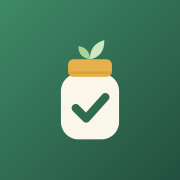
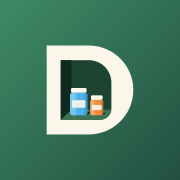
Add files via upload

Changed region(s): [[0.25, 0.2222, 0.75, 0.7778]]

diff --git a/index.html b/index.html
@@ -3,7 +3,7 @@
 <head>
 <meta charset="utf-8">
 <meta name="viewport" content="width=device-width, initial-scale=1, viewport-fit=cover">
-<title>Alacena · Tu despensa, siempre al día</title>
+<title>Despentsa · Tu despensa, siempre al día</title>
 <meta name="description" content="Controla lo que tienes en casa, recibe avisos cuando algo se acaba y comparte la lista de la compra con quien vives.">
 <meta name="theme-color" content="#F6F1E7" media="(prefers-color-scheme: light)">
 <meta name="theme-color" content="#141B16" media="(prefers-color-scheme: dark)">
@@ -12,7 +12,7 @@
 <link rel="apple-touch-icon" href="apple-touch-icon.png">
 <meta name="apple-mobile-web-app-capable" content="yes">
 <meta name="mobile-web-app-capable" content="yes">
-<meta name="apple-mobile-web-app-title" content="Alacena">
+<meta name="apple-mobile-web-app-title" content="Despentsa">
 <link rel="preconnect" href="https://fonts.googleapis.com">
 <link rel="preconnect" href="https://fonts.gstatic.com" crossorigin>
 <link href="https://fonts.googleapis.com/css2?family=DM+Sans:wght@400;500;600;700&family=Fraunces:opsz,wght@9..144,500;9..144,600;9..144,700&display=swap" rel="stylesheet">
@@ -124,31 +124,37 @@
   .cat-dots .l{background:color-mix(in srgb,var(--c) 55%,var(--surface));outline:1.5px solid color-mix(in srgb,var(--c) 75%,var(--ink));}
   .card{background:var(--surface);border:1px solid var(--line);border-radius:var(--radius);box-shadow:var(--shadow);overflow:hidden;}
   .cat.closed .card{display:none;}
-  .row{position:relative;display:grid;grid-template-columns:46px 1fr auto;grid-template-areas:"ava info step" "bar bar bar";align-items:center;gap:2px 12px;padding:13px 14px 0;}
-  .row + .row{border-top:1px solid var(--line);}
-  .ava{grid-area:ava;width:46px;height:46px;border-radius:15px;display:grid;place-items:center;
+  .cat .card{display:grid;grid-template-columns:repeat(2,minmax(0,1fr));gap:10px;background:none;border:0;box-shadow:none;border-radius:0;overflow:visible;}
+  @media(min-width:600px){.cat .card{grid-template-columns:repeat(3,minmax(0,1fr));gap:12px;}}
+  .row{position:relative;display:flex;flex-direction:column;gap:9px;padding:12px 12px 0;background:var(--surface);border:1px solid var(--line);border-radius:18px;box-shadow:var(--shadow);overflow:hidden;min-width:0;}
+  .row.out{border-color:color-mix(in srgb,var(--red) 38%,var(--line));}
+  .row-top{display:flex;align-items:flex-start;justify-content:space-between;gap:6px;}
+  .flags{display:flex;flex-direction:column;align-items:flex-end;gap:4px;min-width:0;}
+  .ava{width:42px;height:42px;flex:none;border-radius:14px;display:grid;place-items:center;
     background:color-mix(in srgb,var(--c) 15%,var(--surface));color:color-mix(in srgb,var(--c) 82%,var(--ink));}
-  .ava .ic{width:23px;height:23px;}
+  .ava .ic{width:24px;height:24px;}
   .row.out .ava{background:var(--red-soft);color:var(--red);}
-  .info{grid-area:info;text-align:left;min-width:0;display:block;}
-  .nm{display:block;font-weight:600;font-size:16px;white-space:nowrap;overflow:hidden;text-overflow:ellipsis;}
+  .info{display:block;text-align:left;min-width:0;width:100%;}
+  .nm{display:block;font-weight:600;font-size:15px;line-height:1.2;overflow:hidden;text-overflow:ellipsis;}
+  .row .nm{display:-webkit-box;-webkit-line-clamp:2;-webkit-box-orient:vertical;min-height:2.4em;white-space:normal;}
+  .crow .nm{white-space:nowrap;}
   .sub{display:flex;align-items:center;flex-wrap:wrap;gap:6px;font-size:12.5px;color:var(--ink-3);margin-top:3px;}
-  .tag{display:inline-flex;align-items:center;gap:4px;padding:2px 8px;border-radius:999px;font-weight:700;font-size:11.5px;line-height:1.5;}
+  .tag{display:inline-flex;align-items:center;gap:4px;padding:2px 8px;border-radius:999px;font-weight:700;font-size:11px;line-height:1.5;white-space:nowrap;}
   .tag .ic{width:12px;height:12px;stroke-width:2.2;}
   .tag.out{background:var(--red);color:#fff;}
   .tag.low{background:color-mix(in srgb,var(--c) 14%,var(--surface));color:color-mix(in srgb,var(--c) 78%,var(--ink));border:1px solid color-mix(in srgb,var(--c) 35%,transparent);}
   .tag.exp{background:var(--amber-soft);color:var(--amber);}
   .tag.exp.bad{background:var(--red-soft);color:var(--red);}
-  .step{grid-area:step;display:flex;align-items:center;gap:4px;background:var(--surface-2);border:1px solid var(--line);border-radius:14px;padding:3px;}
-  .step button{width:38px;height:38px;border-radius:11px;display:grid;place-items:center;color:var(--ink);background:var(--surface);box-shadow:0 1px 1px rgba(0,0,0,.05);}
+  .step{display:flex;align-items:center;justify-content:space-between;gap:4px;background:var(--surface-2);border:1px solid var(--line);border-radius:14px;padding:3px;}
+  .step button{width:38px;height:38px;border-radius:11px;display:grid;place-items:center;color:var(--ink);background:var(--surface);box-shadow:0 1px 1px rgba(0,0,0,.05);flex:none;}
   .step button:active{transform:scale(.92);}
   .step button[disabled]{opacity:.3;pointer-events:none;}
   .step .ic{width:18px;height:18px;stroke-width:2.2;}
-  .q{min-width:50px;text-align:center;font-variant-numeric:tabular-nums;line-height:1.05;}
+  .q{flex:1;min-width:46px;text-align:center;font-variant-numeric:tabular-nums;line-height:1.05;}
   .q b{font-size:17px;font-weight:700;display:block;}
   .q small{font-size:11px;color:var(--ink-3);}
   .row.out .q b{color:var(--red);}
-  .bar{grid-area:bar;height:4px;margin:12px -14px 0;background:var(--surface-2);}
+  .bar{height:4px;margin:3px -12px 0;background:var(--surface-2);}
   .bar i{display:block;height:100%;background:var(--c);border-radius:0 4px 4px 0;transition:width .3s;}
   .row.low .bar i{background:color-mix(in srgb,var(--c) 50%,var(--surface));}
   .row.out .bar i{background:var(--red);}
@@ -167,13 +173,13 @@
   .grp.ext .grp-head{color:var(--ink-2);} .grp.ext .grp-head i{background:var(--ink-3);}
   .crow{display:grid;grid-template-columns:34px 1fr auto;align-items:center;gap:12px;padding:12px 14px;}
   .crow + .crow{border-top:1px solid var(--line);}
-  .crow .info,.crow .step{grid-area:auto;}
-  .crow .info{display:block;}
   .chk{width:30px;height:30px;border-radius:50%;border:2px solid var(--ink-3);display:grid;place-items:center;color:transparent;transition:all .15s;}
   .chk .ic{width:17px;height:17px;stroke-width:3;}
   .crow.done .chk{background:var(--brand);border-color:var(--brand);color:var(--brand-ink);}
   .crow.done .nm{text-decoration:line-through;color:var(--ink-3);}
+  .crow .step{justify-content:flex-start;}
   .crow .step button{width:34px;height:34px;}
+  .crow .q{flex:none;}
   .crow .rm{width:34px;height:34px;color:var(--ink-3);display:grid;place-items:center;}
   .cartbar{position:fixed;left:50%;transform:translateX(-50%);bottom:calc(88px + env(safe-area-inset-bottom));width:min(420px,calc(100% - 24px));z-index:29;}
   .cartbar .btn{width:100%;min-height:54px;box-shadow:0 10px 30px color-mix(in srgb,var(--brand) 40%,transparent);font-size:16px;}
@@ -245,7 +251,7 @@
 
   /* ---------- Vacíos ---------- */
   .empty{text-align:center;padding:38px 22px;background:var(--surface);border:1px dashed var(--line);border-radius:var(--radius);margin-top:14px;}
-  .empty svg.hero{width:150px;height:auto;margin:0 auto 10px;display:block;}
+  .empty svg.hero{width:140px;height:auto;margin:0 auto 10px;display:block;}
   .empty h3{font:600 21px/1.2 var(--serif);margin-bottom:6px;}
   .empty p{color:var(--ink-2);font-size:14.5px;max-width:34ch;margin:0 auto 18px;}
   .empty .acts{justify-content:center;} .empty .acts .btn{flex:none;}
@@ -260,7 +266,7 @@
   .ob{min-height:100dvh;display:flex;align-items:center;justify-content:center;padding:calc(24px + env(safe-area-inset-top)) 20px calc(24px + env(safe-area-inset-bottom));
     background:radial-gradient(900px 420px at 50% -80px,color-mix(in srgb,var(--brand) 22%,transparent),transparent 70%),var(--bg);}
   .ob-wrap{width:min(440px,100%);animation:fade .35s ease;}
-  .ob-hero{display:flex;justify-content:center;margin-bottom:8px;} .ob-hero svg{width:min(320px,86%);height:auto;}
+  .ob-hero{display:flex;justify-content:center;margin-bottom:8px;} .ob-hero svg{filter:drop-shadow(0 12px 24px rgba(35,80,64,.3));margin-top:6px;}
   .ob-brand{display:flex;align-items:center;justify-content:center;gap:12px;margin-top:6px;} .ob-brand h1{font:700 44px/1 var(--serif);letter-spacing:-.025em;}
   .ob-tag{text-align:center;color:var(--ink-2);font-size:17px;margin:8px 0 24px;}
   .ob-points{list-style:none;margin:0 0 24px;padding:0;display:flex;flex-direction:column;gap:14px;}
@@ -379,19 +385,64 @@ const P = {
   cookie:'<circle cx="12" cy="12" r="8.5"/><circle cx="9" cy="9.5" r=".9" fill="currentColor" stroke="none"/><circle cx="14.5" cy="10.5" r=".9" fill="currentColor" stroke="none"/><circle cx="10.5" cy="15" r=".9" fill="currentColor" stroke="none"/><circle cx="15" cy="15.5" r=".9" fill="currentColor" stroke="none"/>',
   roll:'<ellipse cx="12" cy="7" rx="7" ry="3"/><path d="M5 7v10c0 1.7 3.1 3 7 3s7-1.3 7-3V7"/><ellipse cx="12" cy="7" rx="2.5" ry="1"/>'
 };
+const F = 'fill="currentColor" fill-opacity=".16"';
+Object.assign(P, {
+  fridge:`<rect x="5.5" y="2.5" width="13" height="19" rx="2.5" ${F}/><path d="M5.5 9.5h13M8.5 5.5v1.8M8.5 12v3M8 21.5v1M16 21.5v1"/>`,
+  snow:`<path d="M12 3v18M4.6 7.5l14.8 9M4.6 16.5l14.8-9M9.5 4.6 12 6.8l2.5-2.2M9.5 19.4 12 17.2l2.5 2.2"/><circle cx="12" cy="12" r="2.3" ${F}/>`,
+  box:`<rect x="4" y="3" width="16" height="16" rx="2" ${F}/><path d="M12 3v16M4 19v2M20 19v2M9.5 10.5v2M14.5 10.5v2"/>`,
+  carrot:`<path d="M14 7c2.5.5 3.5 3 3 4.5L6.2 20.3c-.8.6-2.5-1-1.8-1.9L12.5 7.6 14 7Z" ${F}/><path d="M15.5 6.5C15.5 4 17 3 18.5 3c0 1.800-1 3-3 3.500ZM16.500 8c2-.5 4 0 4.500 1.500-1.500 1-3.200.5-4.500-1.500Z"/><path d="M9 13.500l2 1.500M7.500 16.500l1.800 1.300"/>`,
+  apple:`<path d="M12 7.500c-1.500-1-5-1-6 2.500-1 3.500.8 8.500 3.500 10.500 1 .7 1.700.5 2.500.2.800.3 1.500.5 2.500-.2 2.700-2 4.500-7 3.500-10.500-1-3.500-4.500-3.500-6-2.500Z" ${F}/><path d="M12 7.500C12 5.500 12.800 4 14 3M13 5.500c1.500-1.500 3.500-1.500 4.500-1-.5 1.800-2.500 2.500-4.500 1Z"/>`,
+  drumstick:`<circle cx="15" cy="9" r="5.500" ${F}/><path d="M11.200 12.800 6.500 17.500M13 7.200a3 3 0 0 1 3.200-.8"/><circle cx="5.400" cy="17" r="1.600"/><circle cx="7" cy="19" r="1.600"/>`,
+  fish:`<path d="M17.500 12c-2.500 4-7 5.800-11 4-1-.5-2-1.200-2.800-2.200L2 16V8l1.700 2.200C4.500 9.200 5.500 8.500 6.500 8c4-1.800 8.500 0 11 4Z" ${F}/><path d="M12 9.300c1 1.500 1 3.900 0 5.400"/><circle cx="15" cy="11" r=".7" fill="currentColor" stroke="none"/>`,
+  milk:`<path d="M8.500 2.500h7l2 4v13.500a1.500 1.500 0 0 1-1.500 1.500H8A1.500 1.500 0 0 1 6.500 20V6.500l2-4Z" ${F}/><path d="M6.500 6.500h11M9.500 12.500h5v4h-5z"/>`,
+  bread:`<path d="M4.500 10.500C3.500 7 6 4.500 9.500 4.500h5c3.500 0 6 2.500 5 6V18a1.500 1.500 0 0 1-1.500 1.500H6A1.500 1.500 0 0 1 4.500 18v-7.500Z" ${F}/><path d="M9.500 9.500l1.500 3M13 9.500l1.500 3"/>`,
+  bottle:`<path d="M10 2.500h4v5.200c0 .8.500 1.400 1.200 2 .5.400.8 1 .8 1.800V20a1.500 1.500 0 0 1-1.500 1.500h-5A1.500 1.500 0 0 1 8 20v-8.500c0-.8.300-1.400.8-1.800.7-.6 1.200-1.200 1.200-2V2.500Z" ${F}/><path d="M8 14h8M8 17.500h8"/>`,
+  spray:`<rect x="6.500" y="9" width="8" height="12" rx="2" ${F}/><path d="M8.500 9V6.500h5L16 4.500M16.500 8h2.500M16.500 10.500h2"/><circle cx="19.500" cy="5.500" r=".8"/>`,
+  spice:`<rect x="6.500" y="7" width="11" height="14" rx="2.500" ${F}/><rect x="8" y="3.500" width="8" height="3.500" rx="1"/><path d="M10 11.500h4M10 15h4"/>`,
+  pod:`<path d="M4.500 19.500C3 11 8.500 4.500 19.500 4.500c.5 11-5 16-15 15Z" ${F}/><circle cx="9.500" cy="14.500" r="1.600"/><circle cx="12.500" cy="11.500" r="1.600"/><circle cx="15.500" cy="8.500" r="1.600"/>`,
+  wheat:`<path d="M12 21.500V9"/>${[9.5,14,18.5].map(y=>`<path d="M12 ${y}c-2.200 0-3.500-1.500-3.500-3.700 2.200 0 3.500 1.500 3.500 3.700ZM12 ${y}c2.200 0 3.500-1.500 3.500-3.700-2.200 0-3.500 1.500-3.500 3.700Z" ${F}/>`).join('')}<path d="M12 5.500c-1-.9-1-2.500 0-3.500 1 1 1 2.600 0 3.500Z" ${F}/>`,
+  cart:`<path d="M3.500 10h17l-1.700 9.200a1.500 1.500 0 0 1-1.500 1.300H6.700a1.500 1.500 0 0 1-1.500-1.300L3.500 10Z" ${F}/><path d="M8 10l3-6M16 10l-3-6M9 13.500v4M12 13.500v4M15 13.500v4"/>`,
+  jar:`<rect x="6" y="7.500" width="12" height="13.500" rx="3" ${F}/><rect x="7.500" y="3.500" width="9" height="4" rx="1.200"/><path d="M9.500 13h5"/>`,
+  bowl:`<path d="M3 11h18a9 9 0 0 1-18 0Z" ${F}/><path d="M8 20.500h8M8 4c-.8.800-.8 1.700 0 2.500M12 3.500c-.8.800-.8 1.700 0 2.500M16 4c-.8.800-.8 1.700 0 2.500"/>`,
+  egg:`<ellipse cx="12" cy="13" rx="6" ry="8" ${F}/><path d="M9 9.500c.5-1 1.200-1.600 2-1.900"/>`
+});
+
 const ic = (n, cls = '') => `<svg class="ic ${cls}" viewBox="0 0 24 24" fill="none" stroke="currentColor" stroke-width="1.8" stroke-linecap="round" stroke-linejoin="round" aria-hidden="true">${P[n] || P.jar}</svg>`;
 
-const logo = (s = 36) => `<svg width="${s}" height="${s}" viewBox="0 0 512 512" aria-hidden="true"><defs><linearGradient id="lg${s}" x1="0" y1="0" x2="1" y2="1"><stop offset="0" stop-color="#3E8A66"/><stop offset="1" stop-color="#235040"/></linearGradient></defs><rect width="512" height="512" rx="116" fill="url(#lg${s})"/><path d="M256 138C254 104 272 78 308 68C310 104 292 132 256 138Z" fill="#CDE8C0"/><path d="M256 138C256 112 242 94 214 90C212 116 228 134 256 138Z" fill="#A6D497"/><rect x="150" y="190" width="212" height="240" rx="64" fill="#FBF6EA"/><rect x="176" y="138" width="160" height="64" rx="20" fill="#E6B04A"/><rect x="176" y="182" width="160" height="10" fill="#CF9A33" opacity=".55"/><path d="M204 316L242 354L312 276" fill="none" stroke="#2F6B4F" stroke-width="30" stroke-linecap="round" stroke-linejoin="round"/></svg>`;
+// Logo: la «D» de Despentsa es un hueco de despensa con profundidad (pared lateral oscura, fondo y suelo de la balda)
+// y dos tarros apoyados dentro.
+// Tarros planos de cocina (polígonos con hombros achaflanados): cara izquierda iluminada, borde derecho en sombra,
+// brillo en la tapa y sombra sobre el suelo bajo el tarro y hacia el fondo del armario.
+function jarSVG(x, yb, w, h, c, lid, lab){
+  const t = yb - h, k = w * .14, k2 = w * .1, lw = w * .9, lx = x + (w - lw) / 2;
+  const body = `${x + k},${t} ${x + w - k},${t} ${x + w},${t + k} ${x + w},${yb - k2} ${x + w - k2},${yb} ${x + k2},${yb} ${x},${yb - k2} ${x},${t + k}`;
+  return `<polygon points="${body}" fill="${c}"/>` +
+    `<polygon points="${x + k},${t} ${x + w * .36},${t} ${x + w * .36},${yb} ${x + k2},${yb} ${x},${yb - k2} ${x},${t + k}" fill="#fff" opacity=".22"/>` +
+    `<polygon points="${x + w * .82},${t} ${x + w - k},${t} ${x + w},${t + k} ${x + w},${yb - k2} ${x + w - k2},${yb} ${x + w * .82},${yb}" fill="#0B1F16" opacity=".16"/>` +
+    `<rect x="${x + w * .12}" y="${t + h * .36}" width="${w * .76}" height="${h * .32}" rx="3" fill="${lab}" opacity=".9"/>` +
+    `<rect x="${lx}" y="${t - 13}" width="${lw}" height="16" rx="4.5" fill="${lid}"/>` +
+    `<rect x="${lx + 4}" y="${t - 11}" width="${lw * .5}" height="3" rx="1.5" fill="#fff" opacity=".7"/>` +
+    `<rect x="${x + w * .1}" y="${t + h * .14}" width="3" height="${h * .62}" rx="1.5" fill="#fff" opacity=".35"/>`;
+}
+// Sombra sobre el suelo: un pequeño óvalo muy oscuro que queda detrás del tarro y solo asoma por abajo a la derecha,
+// a la altura del bisel inferior derecho, algo levantado hacia el fondo. Su base no pasa de la base del tarro.
+const shadowSVG = (x, yb, w, h) => {
+  const rx = w * .21, ry = w * .085, a = 12 * Math.PI / 180;
+  const hh = Math.hypot(rx * Math.sin(a), ry * Math.cos(a));
+  const cx = x + w - w * .06, cy = yb - 1.5 - hh;
+  return `<ellipse cx="${cx}" cy="${cy}" rx="${rx}" ry="${ry}" transform="rotate(-12 ${cx} ${cy})" fill="#081811" opacity=".85"/>`;
+};
+const ALC = 'M200 150H300A80 80 0 0 1 380 230V322A40 40 0 0 1 340 362H200Z';
+const MARK = `<g transform="translate(-48 0)"><path d="M150 98H300A158 158 0 0 1 300 414H150Z" fill="#FBF6EA"/>` +
+  `<clipPath id="alc"><path d="${ALC}"/></clipPath><clipPath id="flr"><polygon points="200,362 238,326 410,326 410,362"/></clipPath><g clip-path="url(#alc)"><rect x="200" y="150" width="210" height="212" fill="#1D4333"/>` +
+  `<polygon points="200,150 238,150 238,326 200,362" fill="#10281E"/><polygon points="200,362 238,326 410,326 410,362" fill="#3A7452"/>` +
+  `<g clip-path="url(#flr)">${shadowSVG(233, 346, 62, 84)}${shadowSVG(305, 346, 46, 58)}</g></g>` +
+  `${jarSVG(233, 346, 62, 84, '#4DB2EC', '#FBF6EA', '#FBF6EA')}${jarSVG(305, 346, 46, 58, '#F08A3C', '#FBF6EA', '#FBF6EA')}</g>`;
+const logo = (s = 36) => `<svg width="${s}" height="${s}" viewBox="0 0 512 512" aria-hidden="true"><defs><linearGradient id="lg${s}" x1="0" y1="0" x2="1" y2="1"><stop offset="0" stop-color="#3E8A66"/><stop offset="1" stop-color="#235040"/></linearGradient></defs><rect width="512" height="512" rx="116" fill="url(#lg${s})"/>${MARK}</svg>`;
 
-// Estantería ilustrada (onboarding y estados vacíos)
+// Escena mínima para los estados vacíos: una balda y dos tarros
 function shelfSVG(){
-  const cols = ['#2A9BD6', '#3F9142', '#E2762B', '#8A4FB5', '#C0432D'];
-  let jars = '';
-  cols.forEach((c, i) => {
-    const x = 18 + i * 58, h = [58, 70, 52, 64, 60][i], lvl = [.7, .45, .85, .3, .6][i], y = 108 - h;
-    jars += `<g><rect x="${x + 7}" y="${y - 10}" width="32" height="12" rx="4" fill="${c}"/><rect x="${x}" y="${y}" width="46" height="${h}" rx="13" fill="${c}" opacity=".16"/><rect x="${x}" y="${y + h * (1 - lvl)}" width="46" height="${h * lvl}" rx="13" fill="${c}" opacity=".85"/></g>`;
-  });
-  return `<svg class="hero" viewBox="0 0 310 130" aria-hidden="true">${jars}<rect x="4" y="108" width="302" height="7" rx="3.5" fill="currentColor" opacity=".18"/></svg>`;
+  return `<svg class="hero" viewBox="0 0 200 110" aria-hidden="true">${jarSVG(48, 92, 50, 62, '#2A9BD6', 'rgba(30,42,34,.55)', '#fff')}${jarSVG(112, 92, 42, 44, '#E2762B', 'rgba(30,42,34,.55)', '#fff')}<rect x="30" y="92" width="140" height="9" rx="4.5" fill="currentColor" opacity=".22"/></svg>`;
 }
 
 /* ---------------- categorías, colores, iconos por nombre ---------------- */
@@ -404,9 +455,9 @@ const CAT_COLORS = [
 ];
 const CAT_ICONS = [
   [['nevera','frigorifico','refrigerador','frio'], 'fridge'], [['congelador','congelado'], 'snow'], [['armario','alacena'], 'box'],
-  [['verdura','hortaliza'], 'leaf'], [['fruta'], 'apple'], [['carne','carniceria'], 'drumstick'], [['pescado','marisco'], 'fish'],
+  [['verdura','hortaliza'], 'carrot'], [['fruta'], 'apple'], [['carne','carniceria'], 'drumstick'], [['pescado','marisco'], 'fish'],
   [['lacteo'], 'milk'], [['pan','panaderia'], 'bread'], [['bebida'], 'bottle'], [['limpieza','higiene','hogar'], 'spray'],
-  [['especia'], 'spice'], [['legumbre'], 'bowl'], [['pasta','arroz'], 'bowl'], [['otro'], 'cart']
+  [['especia'], 'spice'], [['legumbre'], 'pod'], [['pasta','arroz'], 'wheat'], [['otro'], 'cart']
 ];
 const ORDER = ['nevera','congelador','armario','verdura','fruta','lacteo','carne','pescado','pan','pasta','legumbre','especia','bebida','limpieza'];
 const FALLBACK = ['#1F8F86', '#8A4FB5', '#C0432D', '#3F9142', '#2A9BD6', '#D9A512', '#E57FA0', '#7B4F2E'];
@@ -419,8 +470,8 @@ const PROD_ICONS = [
   [['lata','conserva','tomate frito'], 'can'], [['leche','nata'], 'milk'], [['huevo'], 'egg'], [['pan ','pan','baguette'], 'bread'],
   [['manzana','pera','platano','naranja','limon','fruta'], 'apple'], [['pollo','carne','ternera','cerdo','jamon','chorizo','filete','bacon'], 'drumstick'],
   [['pescado','atun','salmon','merluza','gamba','marisco'], 'fish'], [['queso'], 'cheese'], [['tomate'], 'tomato'], [['cafe','te '], 'coffee'],
-  [['agua'], 'water'], [['yogur'], 'cup'], [['arroz','pasta','macarron','espagueti','fideo','cereal','garbanzo','lenteja','alubia','legumbre'], 'bowl'],
-  [['aceite','vino','cerveza','zumo','vinagre','refresco'], 'bottle'], [['patata','cebolla','ajo','zanahoria','pimiento','lechuga','pepino','calabacin','verdura'], 'leaf'],
+  [['agua'], 'water'], [['yogur'], 'cup'], [['arroz','pasta','macarron','espagueti','fideo','cereal'], 'wheat'], [['garbanzo','lenteja','alubia','legumbre'], 'pod'],
+  [['aceite','vino','cerveza','zumo','vinagre','refresco'], 'bottle'], [['zanahoria'], 'carrot'], [['patata','cebolla','ajo','pimiento','lechuga','pepino','calabacin','verdura'], 'leaf'],
   [['mermelada','miel'], 'jar'], [['galleta','chocolate','bizcocho'], 'cookie'], [['papel','rollo'], 'roll'], [['azucar','harina','sal','mantequilla'], 'box'],
   [['detergente','lejia','jabon','suavizante','lavavajillas','bolsas'], 'spray'], [['pimenton','pimienta','oregano','comino','especia'], 'spice']
 ];
@@ -619,7 +670,7 @@ const sheetHead = (t) => `<div class="sheet-head"><h2>${esc(t)}</h2><button clas
 const SYNC_TXT = { ok: 'Sincronizado', sync: 'Guardando…', off: 'Sin conexión', err: 'Sin sincronizar', local: 'Solo en este dispositivo' };
 function renderTop(){
   const el = $('#top'); if (!el || !S.hogar) return;
-  el.innerHTML = `<div class="brand">${logo(38)}<div><div class="brand-name">Alacena</div><div class="hogar-name">${esc(S.hogar.nombre)}</div></div></div>
+  el.innerHTML = `<div class="brand">${logo(38)}<div><div class="brand-name">Despentsa</div><div class="hogar-name">${esc(S.hogar.nombre)}</div></div></div>
     <button class="syncpill ${S.sync}" data-a="tab" data-t="ajustes" title="Estado de la sincronización"><i></i><span>${SYNC_TXT[S.sync]}</span></button>`;
 }
 function grupos(){
@@ -658,14 +709,14 @@ function mountDespensa(){
 function rowHTML(p){
   const e = estado(p), c = catColor(p.categoria), d = diasCad(p), st = paso(p);
   const pct = Math.max(0, Math.min(100, p.cantidad / objetivo(p) * 100));
-  let tags = '';
-  if (e === 'out') tags += `<span class="tag out">Agotado</span>`;
-  else if (e === 'low') tags += `<span class="tag low">Poco</span>`;
-  if (d !== null && d <= 3) tags += `<span class="tag exp ${d < 0 ? 'bad' : ''}">${ic('cal')}${d < 0 ? 'Caducado' : d === 0 ? 'Caduca hoy' : d === 1 ? 'Caduca mañana' : 'Caduca en ' + d + ' d'}</span>`;
-  if (p.avisar !== false) tags += `<span>mín. ${fmt(p.minimo)} ${esc(p.unidad)}</span>`; else tags += `<span>sin aviso</span>`;
+  let flags = '';
+  if (e === 'out') flags += `<span class="tag out">Agotado</span>`;
+  else if (e === 'low') flags += `<span class="tag low">Poco</span>`;
+  if (d !== null && d <= 3) flags += `<span class="tag exp ${d < 0 ? 'bad' : ''}">${ic('cal')}${d < 0 ? 'Caducado' : d === 0 ? 'Hoy' : d === 1 ? 'Mañana' : d + ' días'}</span>`;
+  const sub = p.avisar !== false ? `mín. ${fmt(p.minimo)} ${esc(p.unidad)}` : 'sin aviso';
   return `<div class="row ${e}" style="--c:${c}">
-    <button class="ava" data-a="edit" data-id="${p.id}" aria-label="Editar ${esc(p.nombre)}" tabindex="-1">${ic(prodIcon(p))}</button>
-    <button class="info" data-a="edit" data-id="${p.id}" aria-label="Editar ${esc(p.nombre)}"><span class="nm">${esc(p.nombre)}</span><span class="sub">${tags}</span></button>
+    <div class="row-top"><button class="ava" data-a="edit" data-id="${p.id}" aria-label="Editar ${esc(p.nombre)}" tabindex="-1">${ic(prodIcon(p))}</button><div class="flags">${flags}</div></div>
+    <button class="info" data-a="edit" data-id="${p.id}" aria-label="Editar ${esc(p.nombre)}"><span class="nm">${esc(p.nombre)}</span><span class="sub">${sub}</span></button>
     <div class="step">
       <button data-a="dec" data-id="${p.id}" ${p.cantidad <= 0 ? 'disabled' : ''} aria-label="Quitar ${fmt(st)} ${esc(p.unidad)} de ${esc(p.nombre)}">${ic('minus')}</button>
       <div class="q" aria-live="polite"><b>${fmt(p.cantidad)}</b><small>${esc(p.unidad)}</small></div>
@@ -684,14 +735,14 @@ function renderDespensa(){
     ban = rep > 0
       ? `<div class="banner warn"><div class="lead">${ic('cart')}<div><b>${rep} ${rep === 1 ? 'producto por reponer' : 'productos por reponer'}</b><span>${n.agotado ? n.agotado + ' agotado' + (n.agotado > 1 ? 's' : '') : ''}${n.agotado && n.poco ? ' · ' : ''}${n.poco ? n.poco + ' con poco stock' : ''}</span></div></div><button class="btn sm" data-a="tab" data-t="compra">Ver lista</button></div>`
       : `<div class="banner good"><div class="lead">${ic('check')}<div><b>Todo en orden</b><span>Tu despensa está al día.</span></div></div></div>`;
-    if (S.installEvt && !ls.get('alacena:instalar-no')) ban += `<div class="banner good"><div class="lead">${ic('phone')}<div><b>Instala Alacena</b><span>Ábrela como una app, sin navegador.</span></div></div><span><button class="btn sm" data-a="install">Instalar</button></span></div>`;
+    if (S.installEvt && !ls.get('alacena:instalar-no')) ban += `<div class="banner good"><div class="lead">${ic('phone')}<div><b>Instala Despentsa</b><span>Ábrela como una app, sin navegador.</span></div></div><span><button class="btn sm" data-a="install">Instalar</button></span></div>`;
   }
   $('#d-banner').innerHTML = ban;
   $('#d-chips').innerHTML = all.length ? [['todo', 'Todo', ''], ['agotado', 'Agotados', 'out'], ['poco', 'Poco', 'low'], ['caduca', 'Caducan', '']]
     .filter(([k]) => k === 'todo' || n[k] > 0).map(([k, l, c]) => `<button class="chip ${c}" data-a="filtro" data-f="${k}" aria-pressed="${S.filtro === k}">${l}<em>${n[k]}</em></button>`).join('') : '';
   const box = $('#d-list');
   if (!all.length) {
-    box.innerHTML = emptyHTML('Tu despensa está vacía', 'Añade lo que tienes en casa y Alacena te avisará cuando algo se acabe.',
+    box.innerHTML = emptyHTML('Tu despensa está vacía', 'Añade lo que tienes en casa y Despentsa te avisará cuando algo se acabe.',
       `<div class="acts"><button class="btn" data-a="basicos">${ic('sparkle')} Empezar con básicos</button><button class="btn ghost" data-a="add">${ic('plus')} Añadir un producto</button></div>`);
     return;
   }
@@ -776,7 +827,7 @@ function renderAjustes(){
       <input type="file" id="imp" accept="application/json,.json" hidden>
     </div></div>
     <div class="set"><div class="card"><button class="srow" data-a="salir">${ic('out')}<span class="t">${h.local ? 'Cambiar de despensa' : 'Salir de este hogar'}<small>${h.local ? 'Tus datos seguirán guardados en este dispositivo' : 'Dejarás de verlo aquí. Podrás volver con el código.'}</small></span></button></div></div>
-    <p class="foot">Alacena · v2.0<br>Gratis, sin anuncios y sin cuentas.</p></section>`;
+    <p class="foot">Despentsa · v2.0<br>Gratis, sin anuncios y sin cuentas.</p></section>`;
 }
 
 /* ---------------- hoja: producto ---------------- */
@@ -898,7 +949,7 @@ function textoLista(){
   if (g.low.length) t += `\nBajo mínimo\n${g.low.map(linea).join('\n')}\n`;
   if (g.forz.length) t += `\nAñadidos\n${g.forz.map(linea).join('\n')}\n`;
   if (g.extras.length) t += `\nOtros\n${g.extras.map(x => `• ${x.nombre}`).join('\n')}\n`;
-  return t.trim() + '\n\nHecho con Alacena';
+  return t.trim() + '\n\nHecho con Despentsa';
 }
 function descargar(contenido, tipo, nombre){
   const url = URL.createObjectURL(new Blob([contenido], { type: tipo }));
@@ -948,12 +999,12 @@ const A = {
   renombrar: () => openSheet(sheetHead('Nombre del hogar') + `<form id="nf"><label class="f"><input class="in" name="n" value="${esc(S.hogar.nombre)}" maxlength="40" required></label><div class="acts"><button class="btn" type="submit">Guardar</button></div></form>`, () => $('#nf').elements.n.select()),
   copycode: () => copiar(showCode(S.hogar.code), 'Código copiado'),
   invitar: () => {
-    const txt = `Únete a nuestra despensa en Alacena: ${shareLink(S.hogar.code)}\n(o usa el código ${showCode(S.hogar.code)})`;
-    if (navigator.share) navigator.share({ title: 'Alacena', text: txt }).catch(() => {}); else copiar(txt, 'Invitación copiada');
+    const txt = `Únete a nuestra despensa en Despentsa: ${shareLink(S.hogar.code)}\n(o usa el código ${showCode(S.hogar.code)})`;
+    if (navigator.share) navigator.share({ title: 'Despentsa', text: txt }).catch(() => {}); else copiar(txt, 'Invitación copiada');
   },
   tema: el => { S.tema = el.dataset.v; ls.set('alacena:tema', S.tema); document.documentElement.dataset.theme = S.tema; renderApp(); },
   install: async () => { if (!S.installEvt) return; S.installEvt.prompt(); await S.installEvt.userChoice.catch(() => {}); S.installEvt = null; renderApp(); },
-  'export-json': () => descargar(JSON.stringify({ app: 'alacena', v: 2, hogar: S.hogar.nombre, items: S.data.items, extras: S.data.extras }, null, 2), 'application/json', `alacena-copia-${hoy()}.json`),
+  'export-json': () => descargar(JSON.stringify({ app: 'despentsa', v: 2, hogar: S.hogar.nombre, items: S.data.items, extras: S.data.extras }, null, 2), 'application/json', `despentsa-copia-${hoy()}.json`),
   'import-json': () => $('#imp').click(),
   salir: () => openSheet(sheetHead(S.hogar.local ? 'Cambiar de despensa' : 'Salir de este hogar') + `<p style="color:var(--ink-2);margin-bottom:18px">${S.hogar.local ? 'Tus productos seguirán guardados en este dispositivo.' : `Dejarás de ver «${esc(S.hogar.nombre)}» en este dispositivo. Los demás no se verán afectados y podrás volver con el código <b>${esc(showCode(S.hogar.code))}</b>.`}</p><div class="acts"><button class="btn ghost" data-a="close">Cancelar</button><button class="btn danger" data-a="salir-ok">Continuar</button></div>`),
   'salir-ok': () => { closeSheet(); DB.disconnect(); S.hogar = null; ls.del('alacena:hogar'); S.data = { items: {}, extras: {}, hist: [], meta: {} }; S.ob = { step: 'inicio' }; renderApp(); },
@@ -1025,7 +1076,7 @@ document.addEventListener('change', async e => {
     openSheet(sheetHead('Restaurar copia') + `<p style="color:var(--ink-2);margin-bottom:18px">Se sustituirán los productos actuales por los <b>${n}</b> de la copia.</p><div class="acts"><button class="btn ghost" data-a="close">Cancelar</button><button class="btn" id="imp-ok">Restaurar</button></div>`, () => {
       $('#imp-ok').onclick = () => { closeSheet(); mutate([{ t: 'set', path: 'items', v: items }, { t: 'set', path: 'extras', v: src.extras || {} }]); toast('Copia restaurada'); };
     });
-  } catch { toast('Ese archivo no parece una copia de Alacena'); }
+  } catch { toast('Ese archivo no parece una copia de Despentsa'); }
   e.target.value = '';
 });
 document.addEventListener('keydown', e => { if (e.key === 'Escape') closeSheet(); });
@@ -1038,8 +1089,8 @@ function renderOnboarding(){
   let h = '';
   if (o.step === 'inicio') {
     const n = legacyCount();
-    h = `<div class="ob-hero">${shelfSVG()}</div>
-      <div class="ob-brand">${logo(46)}<h1>Alacena</h1></div>
+    h = `<div class="ob-hero">${logo(104)}</div>
+      <div class="ob-brand"><h1>Despentsa</h1></div>
       <p class="ob-tag">Tu despensa, siempre al día.</p>
       <ul class="ob-points">
         <li>${ic('bell')}<div><b>Sabe qué se acaba</b><span>Fija un mínimo y te avisa antes de quedarte sin nada.</span></div></li>
@@ -1095,7 +1146,7 @@ async function unirse(code){
 /* ---------------- arranque ---------------- */
 document.documentElement.dataset.theme = S.tema;
 window.addEventListener('beforeinstallprompt', e => { e.preventDefault(); S.installEvt = e; if (S.hogar) renderApp(); });
-window.addEventListener('appinstalled', () => { S.installEvt = null; toast('Alacena instalada'); });
+window.addEventListener('appinstalled', () => { S.installEvt = null; toast('Despentsa instalada'); });
 window.addEventListener('online', () => { if (S.hogar && !S.hogar.local) DB.connect(S.hogar.code); });
 if ('serviceWorker' in navigator && /^https?:$/.test(location.protocol)) navigator.serviceWorker.register('sw.js').catch(() => {});
 

diff --git a/sw.js b/sw.js
@@ -1,7 +1,7 @@
-// Alacena · service worker
+// Despentsa · service worker
 // Estrategia: la app se abre siempre con la última versión si hay conexión (red primero)
 // y, si no la hay, desde la copia guardada. Así las actualizaciones nunca se quedan "atascadas".
-const CACHE = 'alacena-v2';
+const CACHE = 'despentsa-v1';
 const PRECACHE = ['./', './index.html', './manifest.webmanifest', './icon.svg', './icon-192.png', './icon-512.png'];
 
 self.addEventListener('install', (e) => {
